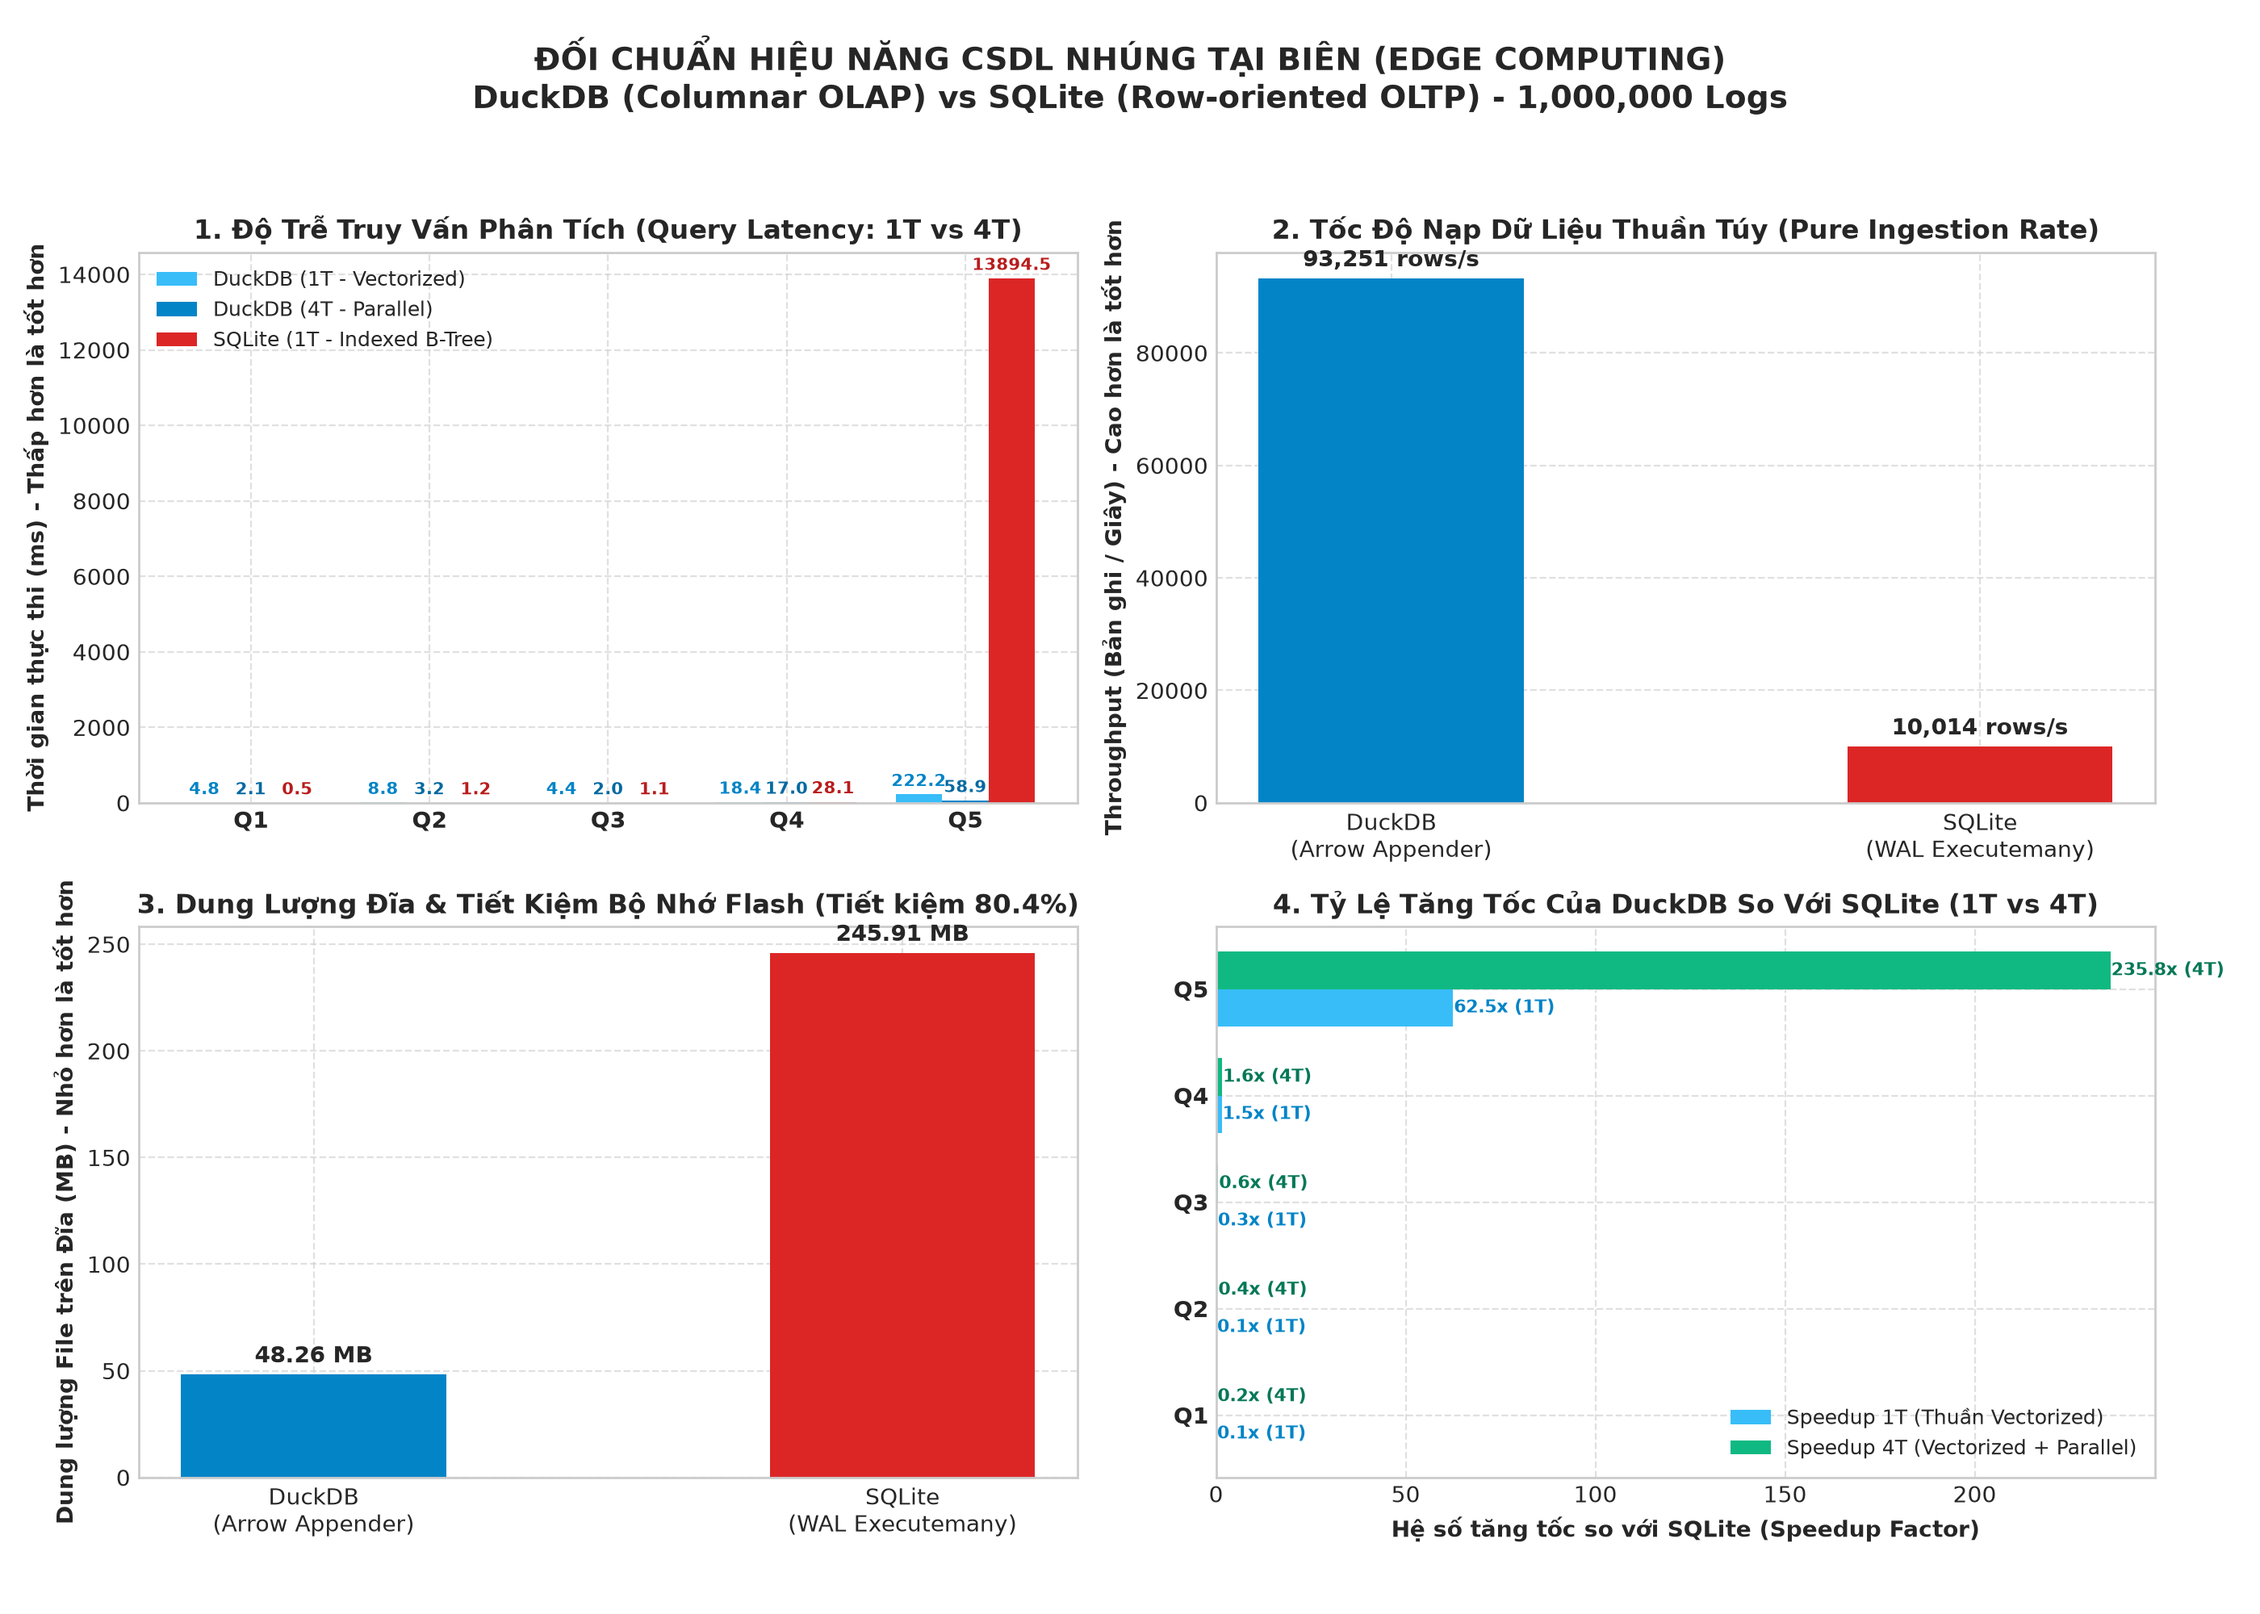
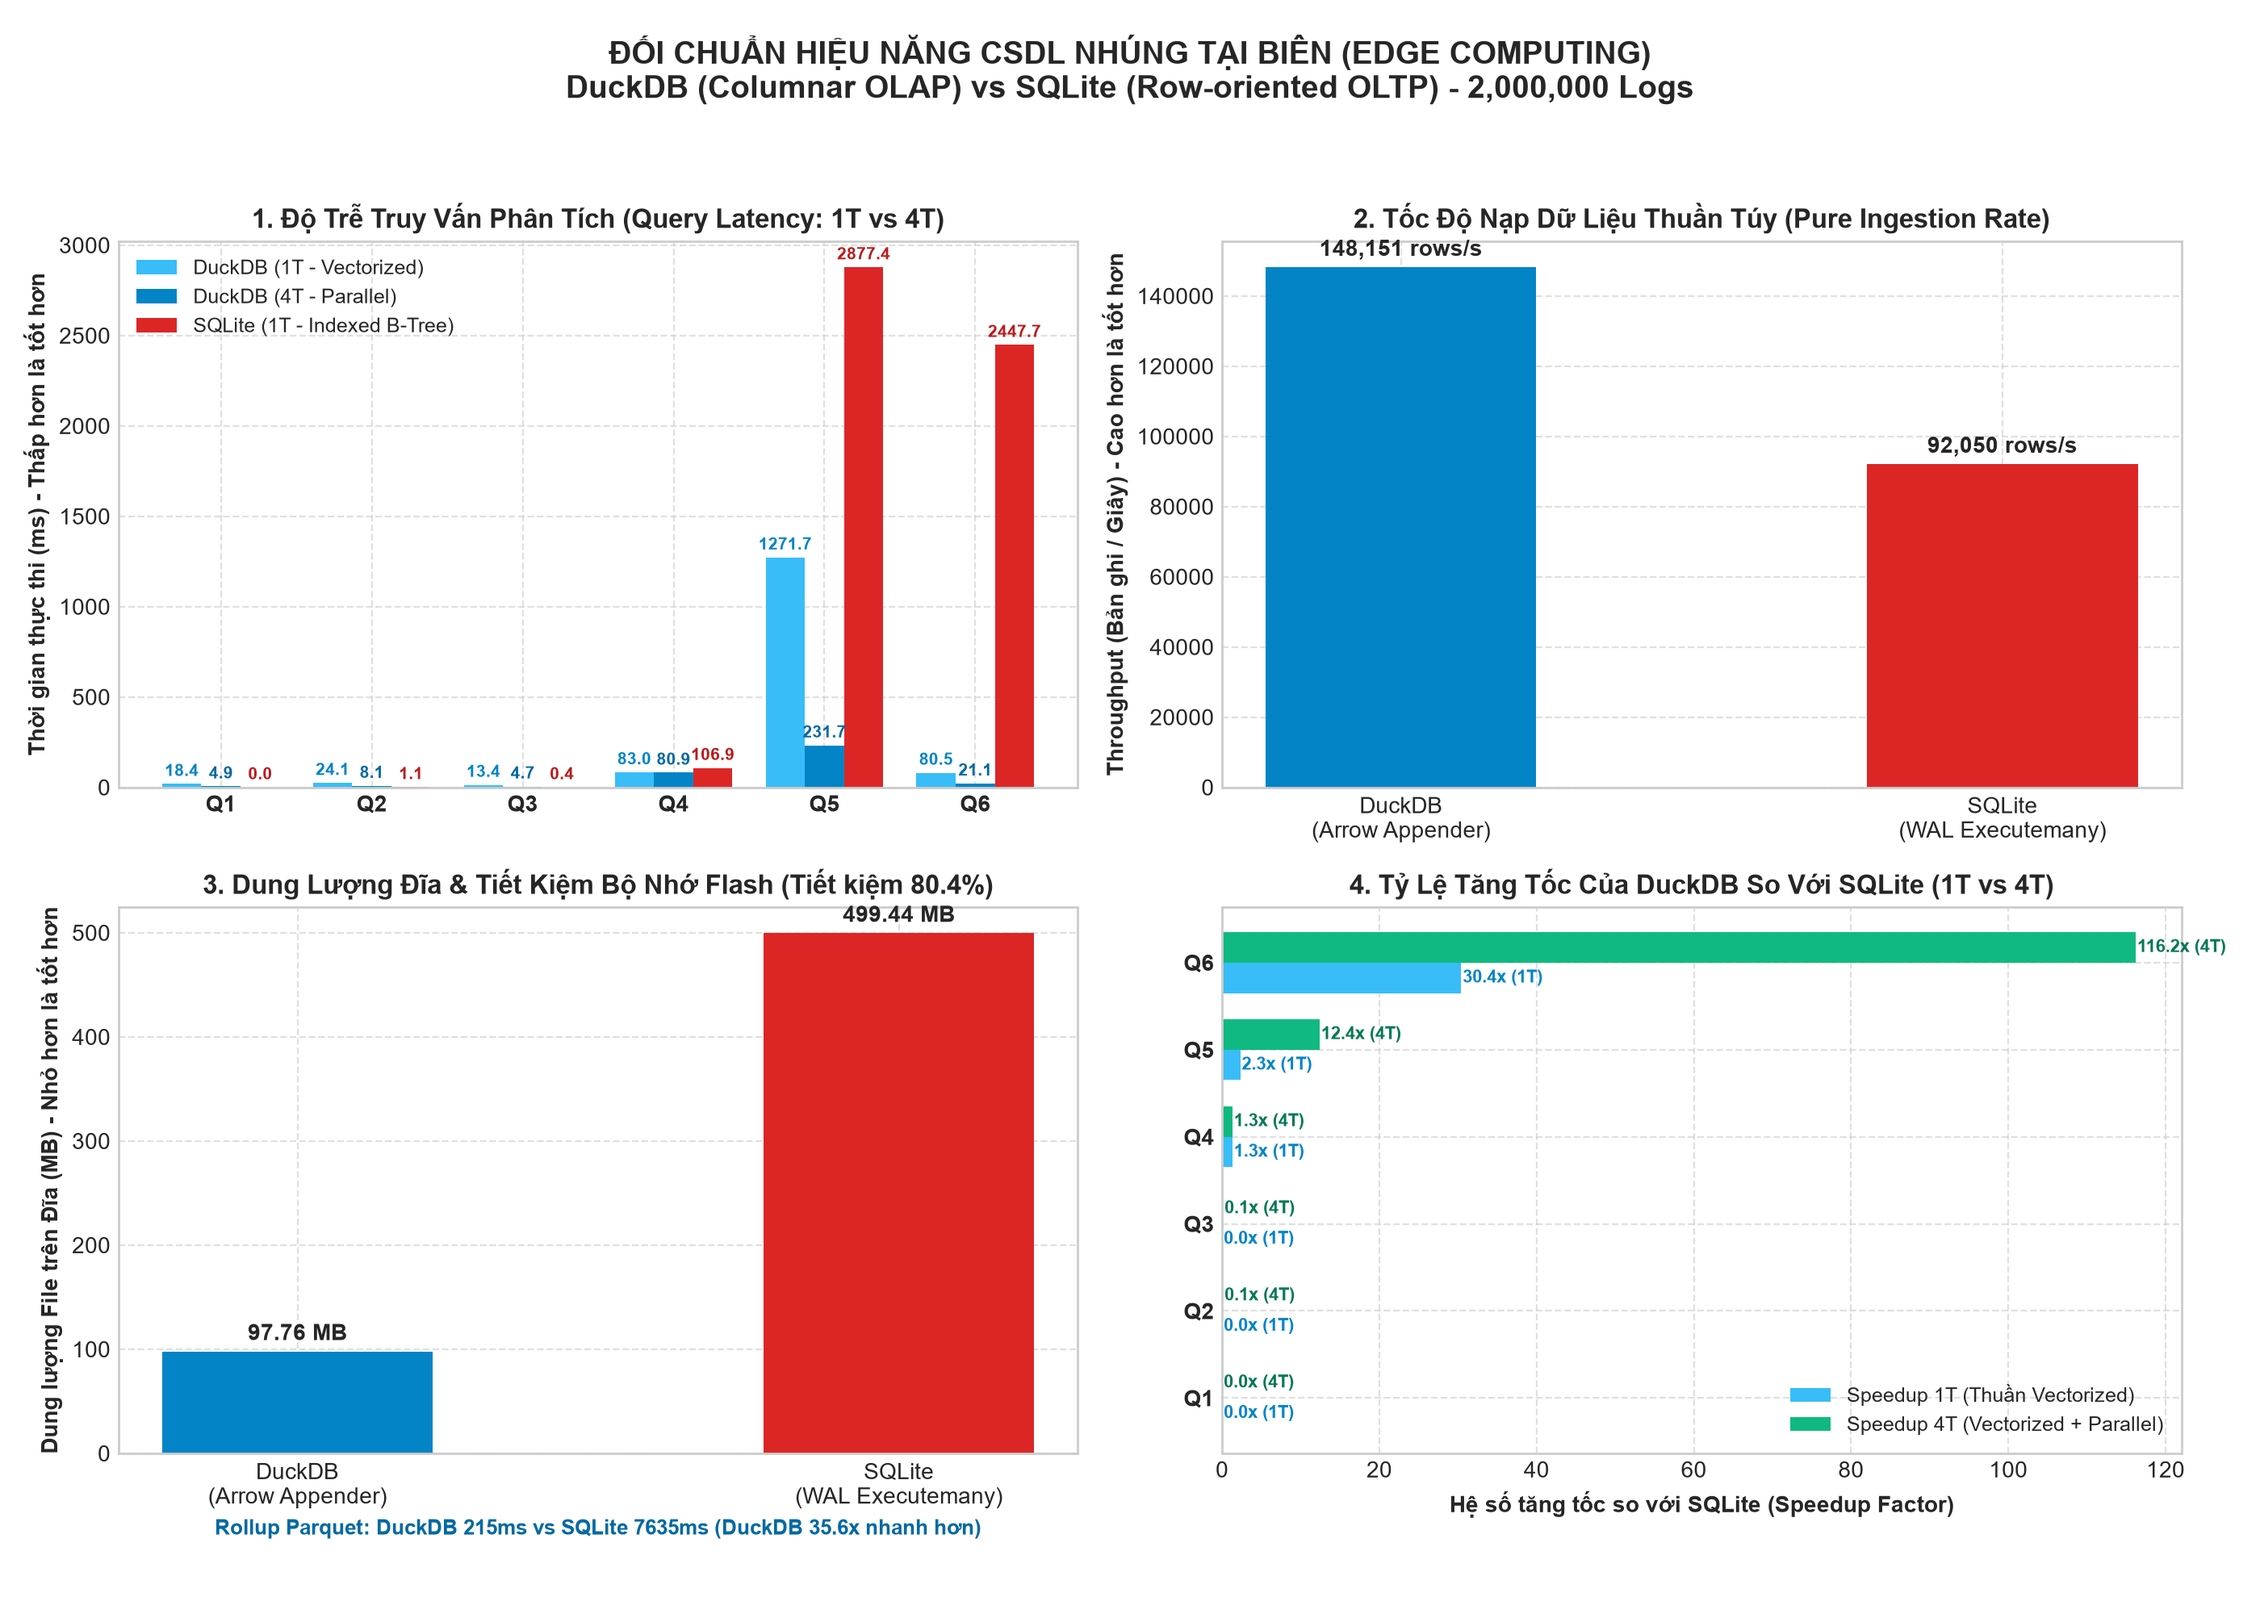
update: Q6_Global_Aggregation

diff --git a/client/benchmark/runner.py b/client/benchmark/runner.py
@@ -140,6 +140,11 @@ def run_benchmark(total_rows: int = 100000, batch_size: int = None) -> Dict[str,
             "name": "Q5: Text Pattern Search (Quét payload tiêm SQL/Admin trong URL)",
             "duck_sql": "SELECT COUNT(*) FROM edge_logs WHERE endpoint LIKE '%union%' OR endpoint LIKE '%select%' OR endpoint LIKE '%admin%';",
             "sqlite_sql": "SELECT COUNT(*) FROM edge_logs WHERE endpoint LIKE '%union%' OR endpoint LIKE '%select%' OR endpoint LIKE '%admin%';"
+        },
+        "Q6_Global_Aggregation": {
+            "name": "Q6: Global Fleet Aggregation (Gom nhóm tổng hợp toàn diện 100% logs)",
+            "duck_sql": "SELECT method, COUNT(*), ROUND(AVG(latency_ms), 2), SUM(bytes_sent) FROM edge_logs GROUP BY method;",
+            "sqlite_sql": "SELECT method, COUNT(*), ROUND(AVG(latency_ms), 2), SUM(bytes_sent) FROM edge_logs GROUP BY method;"
         }
     }
 
@@ -207,6 +212,38 @@ def run_benchmark(total_rows: int = 100000, batch_size: int = None) -> Dict[str,
         print(f"     DuckDB (1T): {avg_duck_1t:.2f} ms | DuckDB (4T): {avg_duck_4t:.2f} ms | SQLite (1T): {avg_sqlite:.2f} ms")
         print(f"     Speedup 1T (Vectorized): {speedup_1t:.1f}x | Speedup 4T (Parallel): {speedup_4t:.1f}x")
 
+    # 5. ĐỐI CHUẨN ĐỒNG BỘ VÒNG ĐỜI DỮ LIỆU EDGE-TO-CLOUD (ROLLUP PARQUET EXPORT)
+    print("\n[*] 5/5: Đo lường tốc độ Rollup và nén Parquet gửi lên Cloud (Edge-to-Cloud Sync)...")
+    duck_rollup_path = os.path.join(data_dir, "duck_rollup_bench.parquet")
+    sqlite_rollup_path = os.path.join(data_dir, "sqlite_rollup_bench.parquet")
+
+    # DuckDB Native Rollup (Zero-copy C++)
+    t0 = time.perf_counter()
+    duck.export_parquet_rollup(duck_rollup_path, interval_minutes=15)
+    t_duck_rollup = (time.perf_counter() - t0) * 1000.0
+    duck_rollup_size_kb = os.path.getsize(duck_rollup_path) / 1024.0
+
+    # SQLite Pipeline Rollup (Query -> Python Memory -> PyArrow -> Parquet)
+    t0 = time.perf_counter()
+    sqlite.export_parquet_rollup(sqlite_rollup_path, interval_minutes=15)
+    t_sqlite_rollup = (time.perf_counter() - t0) * 1000.0
+    sqlite_rollup_size_kb = os.path.getsize(sqlite_rollup_path) / 1024.0
+
+    rollup_speedup = t_sqlite_rollup / max(t_duck_rollup, 0.001)
+    print(f"   -> DuckDB Native C++ Rollup: {t_duck_rollup:.2f} ms | File: {duck_rollup_size_kb:.1f} KB (kèm hàm P99)")
+    print(f"   -> SQLite Python Rollup    : {t_sqlite_rollup:.2f} ms | File: {sqlite_rollup_size_kb:.1f} KB (không hàm P99)")
+    print(f"   -> DuckDB Rollup nhanh hơn : {rollup_speedup:.1f}x")
+
+    for p in [duck_rollup_path, sqlite_rollup_path]:
+        if os.path.exists(p):
+            try:
+                os.remove(p)
+            except Exception:
+                pass
+
+    process = psutil.Process()
+    peak_ram_mb = process.memory_info().rss / (1024.0 * 1024.0)
+
     results = {
         "total_rows": total_rows,
         "timestamp": datetime.datetime.now().isoformat(),
@@ -214,7 +251,8 @@ def run_benchmark(total_rows: int = 100000, batch_size: int = None) -> Dict[str,
             "evaluation_context": "In-situ Edge Sliding Window Evaluation (Hot Working Set)",
             "duckdb_threads": [1, 4],
             "sqlite_indexing": "Enabled (idx_logs_latency, idx_logs_level, idx_logs_ts)",
-            "ingestion_method": "Pre-generated batches (Excludes Python data gen overhead)"
+            "ingestion_method": "Pre-generated batches (Excludes Python data gen overhead)",
+            "peak_ram_mb": round(peak_ram_mb, 2)
         },
         "ingestion": {
             "duckdb_rows_per_sec": round(duck_ingest_rate, 0),
@@ -227,6 +265,13 @@ def run_benchmark(total_rows: int = 100000, batch_size: int = None) -> Dict[str,
             "sqlite_size_mb": round(sqlite_size_mb, 2),
             "space_saving_pct": round(((sqlite_size_mb - duck_size_mb)/sqlite_size_mb)*100, 1),
             "compression_ratio": round(compression_ratio, 2)
+        },
+        "edge_to_cloud_sync": {
+            "duckdb_rollup_ms": round(t_duck_rollup, 2),
+            "sqlite_rollup_ms": round(t_sqlite_rollup, 2),
+            "speedup": round(rollup_speedup, 1),
+            "duckdb_parquet_kb": round(duck_rollup_size_kb, 1),
+            "sqlite_parquet_kb": round(sqlite_rollup_size_kb, 1)
         },
         "queries": query_results
     }

diff --git a/client/core/sqlite_engine.py b/client/core/sqlite_engine.py
@@ -68,5 +68,49 @@ class SQLiteEngine:
         cursor.execute("SELECT COUNT(*) FROM edge_logs;")
         return cursor.fetchone()[0]
 
+    def export_parquet_rollup(self, output_path: str, interval_minutes: int = 15) -> str:
+        """Thực thi pipeline đồng bộ Rollup Parquet của SQLite (Query -> Python Memory -> PyArrow -> Parquet ZSTD)"""
+        import pyarrow as pa
+        import pyarrow.parquet as pq
+        os.makedirs(os.path.dirname(os.path.abspath(output_path)), exist_ok=True)
+        cursor = self.conn.cursor()
+        query = """
+            SELECT 
+                client_ip,
+                method,
+                attack_type,
+                COUNT(*) AS total_requests,
+                SUM(CASE WHEN label = 'attack' THEN 1 ELSE 0 END) AS attack_requests,
+                SUM(CASE WHEN status_code >= 400 THEN 1 ELSE 0 END) AS error_requests,
+                ROUND(AVG(bytes_sent), 2) AS avg_bytes,
+                ROUND(AVG(latency_ms), 2) AS avg_latency
+            FROM edge_logs
+            GROUP BY client_ip, method, attack_type;
+        """
+        rows = cursor.execute(query).fetchall()
+        schema = pa.schema([
+            ('client_ip', pa.string()),
+            ('method', pa.string()),
+            ('attack_type', pa.string()),
+            ('total_requests', pa.int64()),
+            ('attack_requests', pa.int64()),
+            ('error_requests', pa.int64()),
+            ('avg_bytes', pa.float64()),
+            ('avg_latency', pa.float64())
+        ])
+        batch_dict = {
+            'client_ip': [r[0] for r in rows],
+            'method': [r[1] for r in rows],
+            'attack_type': [r[2] for r in rows],
+            'total_requests': [r[3] for r in rows],
+            'attack_requests': [r[4] for r in rows],
+            'error_requests': [r[5] for r in rows],
+            'avg_bytes': [r[6] for r in rows],
+            'avg_latency': [r[7] for r in rows]
+        }
+        table = pa.Table.from_pydict(batch_dict, schema=schema)
+        pq.write_table(table, output_path, compression='zstd')
+        return output_path
+
     def close(self):
         self.conn.close()

diff --git a/client/benchmark/visualizer.py b/client/benchmark/visualizer.py
@@ -78,6 +78,11 @@ def generate_charts(json_path: str = "data/benchmark_results.json", output_img: 
         ax3.annotate(f'{h:.2f} MB', xy=(bar.get_x() + bar.get_width()/2, h),
                      xytext=(0, 3), textcoords="offset points", ha='center', va='bottom', fontweight='bold')
 
+    if 'edge_to_cloud_sync' in data:
+        sync = data['edge_to_cloud_sync']
+        ax3.set_xlabel(f"Rollup Parquet: DuckDB {sync['duckdb_rollup_ms']:.0f}ms vs SQLite {sync['sqlite_rollup_ms']:.0f}ms (DuckDB {sync['speedup']}x nhanh hơn)",
+                       fontweight='bold', color='#0369a1', fontsize=9.5)
+
     ax4 = axes[1, 1]
     speedups_1t = [q.get('speedup_1t', q['speedup']) for q in data['queries'].values()]
     speedups_4t = [q.get('speedup_4t', q['speedup']) for q in data['queries'].values()]

diff --git a/README.md b/README.md
@@ -220,21 +220,27 @@ python client/benchmark/runner.py 500000
 
 Sau khi chạy xong, kết quả lưu vào `client/data/benchmark_results.json` và xuất ảnh biểu đồ tự động tại `client/data/benchmark_results.png`.
 
-### 5 Kịch bản kiểm thử:
+### 6 Kịch bản kiểm thử chuẩn hóa (Kế thừa từ ClickBench & TSBS):
 1. **Batch Ingestion Rate (Tốc độ nạp dữ liệu):**  
    Đo tốc độ chèn qua micro-batching (Apache Arrow nạp vào DuckDB vs Prepared Statements nạp vào SQLite WAL).
-2. **Time-range & Severity Filtering:**  
-   Truy vấn lọc các log lỗi trong 15 phút gần nhất:
-   `SELECT COUNT(*) FROM edge_logs WHERE timestamp >= ? AND status_code >= 400`
-3. **Multi-dimensional Aggregation (GROUP BY):**  
-   Thống kê lưu lượng và số yêu cầu theo IP:
-   `SELECT client_ip, COUNT(*), SUM(bytes_sent) FROM edge_logs GROUP BY client_ip ORDER BY COUNT(*) DESC LIMIT 10`
-4. **Percentile / Quantile Calculation (Độ trễ P95, P99):**  
+2. **Q1 - Attack Detection & Count (Lọc & Đếm log tấn công):**  
+   `SELECT COUNT(*) FROM edge_logs WHERE label = 'attack';`
+3. **Q2 - Multi-dimensional Aggregation (Gom nhóm theo IP & Loại tấn công):**  
+   `SELECT client_ip, attack_type, COUNT(*), AVG(bytes_sent) FROM edge_logs WHERE label = 'attack' GROUP BY client_ip, attack_type;`
+4. **Q3 - Heavy Multi-Agg (Tổng hợp tải lỗi Server 5xx):**  
+   `SELECT COUNT(*), AVG(bytes_sent), MAX(bytes_sent), MIN(bytes_sent) FROM edge_logs WHERE status_code >= 500;`
+5. **Q4 - Percentile / Quantile Calculation (Độ trễ P99 Latency Math):**  
    Đo kiểm khả năng tính phân vị thời gian thực:
-   - DuckDB: Sử dụng `QUANTILE_CONT(latency_ms, 0.99)` Vectorized.
-   - SQLite: Sắp xếp toàn bộ tập dữ liệu bằng subquery.
-5. **Disk Storage Footprint & Compression Ratio:**  
-   Đo kích thước file `.duckdb` so với `.sqlite` và tính % dung lượng tiết kiệm được.
+   - DuckDB: Sử dụng `QUANTILE_CONT(bytes_sent, 0.99)` Vectorized.
+   - SQLite: Sắp xếp bằng B-Tree offset subquery.
+6. **Q5 - Text Pattern Search (Quét mẫu chuỗi URL tiêm SQL/Admin):**  
+   `SELECT COUNT(*) FROM edge_logs WHERE endpoint LIKE '%union%' OR endpoint LIKE '%select%' OR endpoint LIKE '%admin%';`
+7. **Q6 - Global Fleet Aggregation (Gom nhóm tổng hợp toàn diện 100% logs):**  
+   `SELECT method, COUNT(*), ROUND(AVG(latency_ms), 2), SUM(bytes_sent) FROM edge_logs GROUP BY method;`
+8. **Edge-to-Cloud Rollup Sync (Đo lường thời gian xuất nén Parquet ZSTD gửi về Cloud):**  
+   So sánh DuckDB Native C++ Zero-Copy Rollup (`COPY ... TO PARQUET ZSTD`) đối đầu với SQLite Python Pipeline (Query $\rightarrow$ Python Memory $\rightarrow$ PyArrow $\rightarrow$ Parquet).
+
+> 📖 **Xem tài liệu giải trình phản biện khoa học chi tiết:** [`docs/LUAN_DIEM_KHOA_HOC_VA_PHAN_BIEN.md`](docs/LUAN_DIEM_KHOA_HOC_VA_PHAN_BIEN.md)
 
 ---
 
